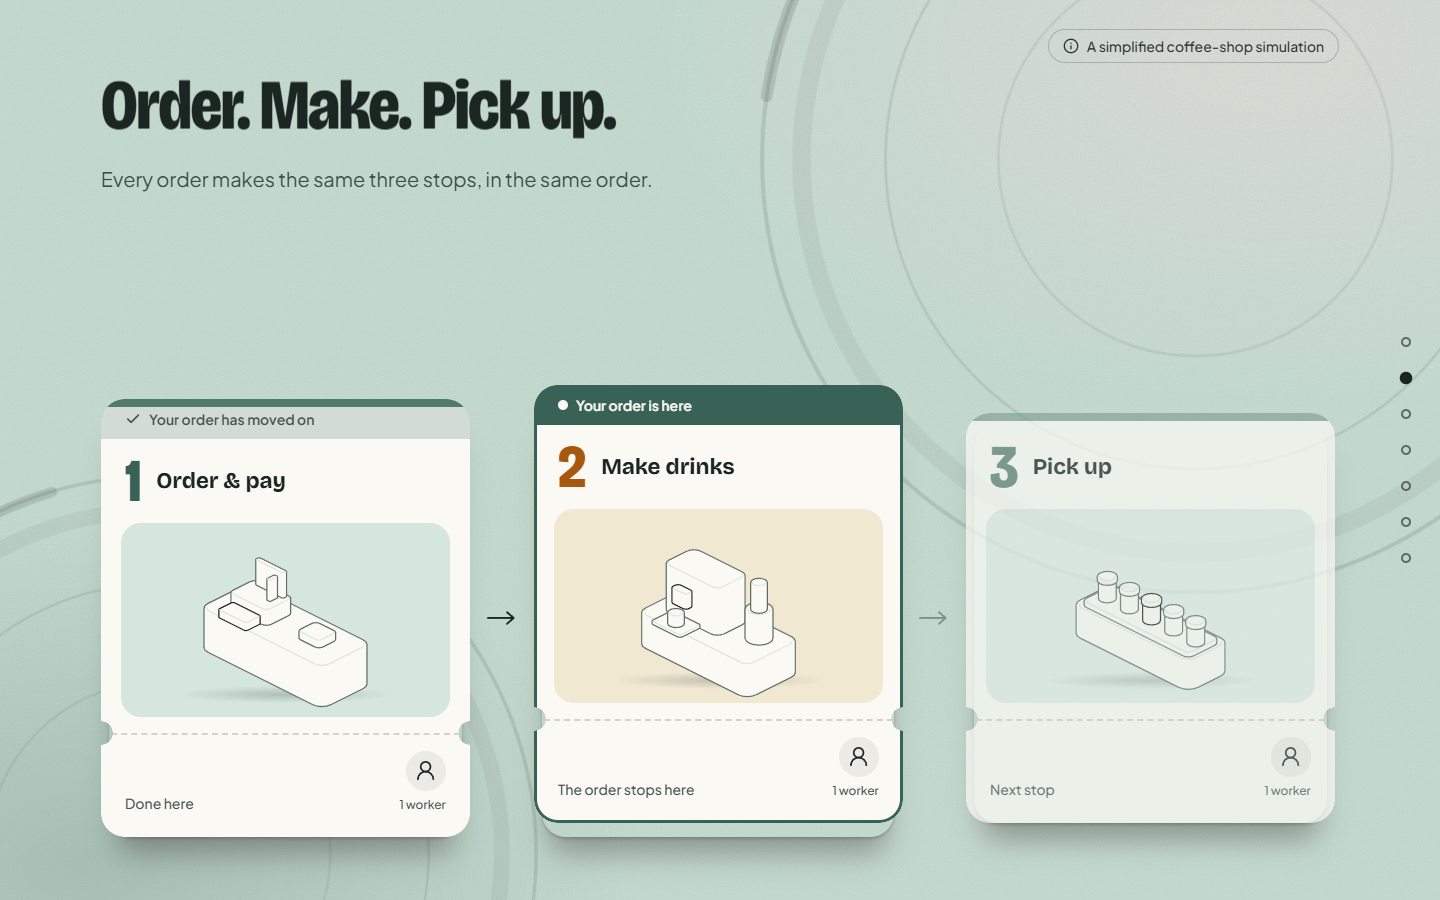
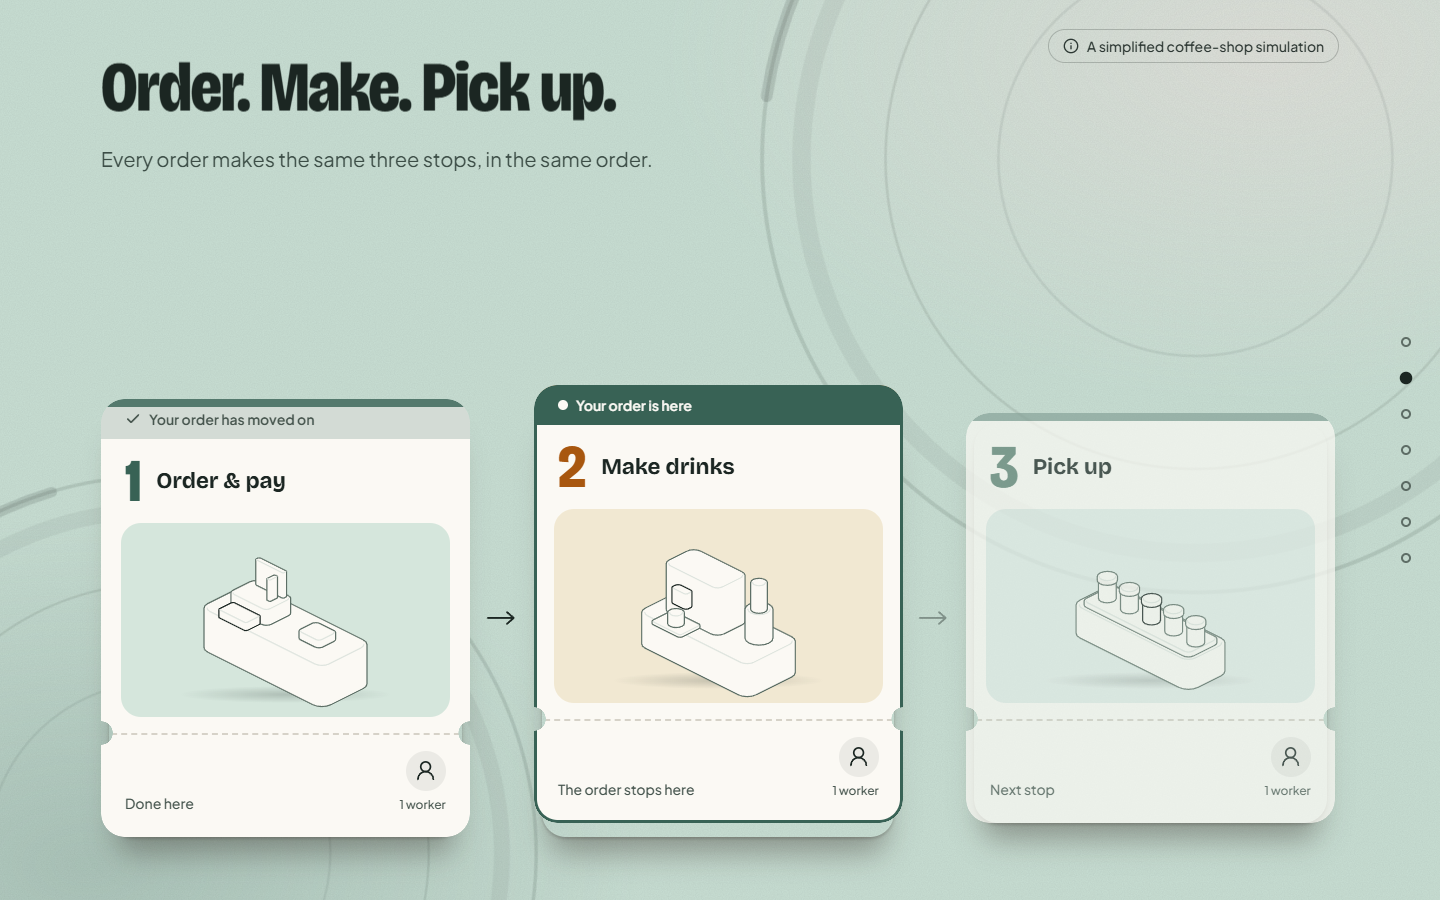
Fix overlapping text: place the stage below the measured headline
Stage position is measured per beat, text scales with window height, the
pinned story needs 660px of height, and an end-to-end test checks for
overlap at four window sizes on every beat.

Changed region(s): [[0.0625, 0.0622, 0.4375, 0.2178]]

diff --git a/src/story/StoryExperience.tsx b/src/story/StoryExperience.tsx
@@ -44,6 +44,14 @@ const START: Step = { beat: 0, rush: 0, stop: 0 }
 
 const BEAT_LABELS = ['A familiar moment', 'One order, three stops', 'The rush', 'The obvious fix', 'The surprise', 'The reveal', 'Your turn']
 
+/** Keeps the stage clear of the headline: it starts below whichever text group is showing. */
+function positionStage(root: HTMLElement | null, beat: number) {
+  const area = root?.querySelector<HTMLElement>('[data-stage-area]')
+  const group = root?.querySelector<HTMLElement>('[data-text="' + beat + '"]')
+  if (!area || !group) return
+  gsap.set(area, { top: group.offsetTop + group.offsetHeight + 28 })
+}
+
 const mmss = (seconds: number) => `${Math.floor(seconds / 60)}:${String(Math.round(seconds % 60)).padStart(2, '0')}`
 
 export function StoryExperience() {
@@ -101,8 +109,16 @@ export function StoryExperience() {
         onUpdate: (self) => apply(self.progress),
         onRefresh: (self) => apply(self.progress),
       })
-      document.fonts?.ready.then(() => ScrollTrigger.refresh())
-      return () => st.kill()
+      const relayout = () => positionStage(root.current, live.current.step.beat)
+      window.addEventListener('resize', relayout)
+      document.fonts?.ready.then(() => {
+        relayout()
+        ScrollTrigger.refresh()
+      })
+      return () => {
+        window.removeEventListener('resize', relayout)
+        st.kill()
+      }
     },
     { scope: root },
   )
@@ -142,6 +158,7 @@ export function StoryExperience() {
         gsap.set(group(prev), { autoAlpha: 0, delay: 0.42 })
       }
       gsap.set(group(beat), { autoAlpha: 1 })
+      positionStage(root.current, beat)
       gsap.fromTo(words(beat), { yPercent: 120 * dir }, { yPercent: 0, duration: 0.95, stagger: 0.06, ease: 'power4.out', delay: prev < 0 ? 0.15 : 0.26 })
       gsap.fromTo(support(beat), { autoAlpha: 0, y: 18 * dir }, { autoAlpha: 1, y: 0, duration: 0.8, ease: 'power3.out', delay: prev < 0 ? 0.7 : 0.8 })
 
@@ -262,7 +279,7 @@ export function StoryExperience() {
               </div>
             ) : null}
 
-            <div data-stage-area className="absolute inset-x-0 bottom-[7svh] top-[31svh]">
+            <div data-stage-area className="absolute inset-x-0 bottom-[7svh]" style={{ top: '31svh' }}>
               <Layer scene="opening" visible align="end" justify="end">
                 <OpeningCard className="w-[min(31vw,470px)] self-end" />
               </Layer>
@@ -353,7 +370,7 @@ const TextGroups = memo(function TextGroups() {
           key={b.id}
           data-text={i}
           style={{ opacity: i === 0 ? 1 : 0, visibility: i === 0 ? 'visible' : 'hidden', left: GUTTER, right: GUTTER }}
-          className="absolute top-[clamp(36px,8svh,92px)] flex flex-col items-start gap-6"
+          className="absolute top-[clamp(28px,6svh,92px)] flex flex-col items-start gap-[clamp(12px,2.4svh,24px)]"
         >
           <RevealText
             as="p"
@@ -361,12 +378,12 @@ const TextGroups = memo(function TextGroups() {
             className={cn(
               'display text-balance',
               i === 0
-                ? 'max-w-[15ch] text-[clamp(3rem,7.6vw,8.8rem)] leading-[0.92]'
-                : 'max-w-[17ch] text-[clamp(2.3rem,4.9vw,5.4rem)] leading-[0.95]',
+                ? 'max-w-[15ch] text-[clamp(2.6rem,min(7.6vw,13.5svh),8.8rem)] leading-[0.92]'
+                : 'max-w-[17ch] text-[clamp(2rem,min(4.9vw,8.4svh),5.4rem)] leading-[0.95]',
             )}
           />
           {b.support ? (
-            <p data-support className="max-w-[38ch] text-pretty text-lg leading-relaxed sm:text-xl" style={{ color: BEAT_THEMES[0].fg2 }}>
+            <p data-support className="max-w-[38ch] text-pretty text-[clamp(1rem,2.4svh,1.25rem)] leading-relaxed" style={{ color: BEAT_THEMES[0].fg2 }}>
               {b.support}
             </p>
           ) : null}

diff --git a/tests/e2e/story.spec.ts b/tests/e2e/story.spec.ts
@@ -131,3 +131,47 @@ test.describe('static story (phones, tablets, reduced motion)', () => {
     await expect(page.getByRole('heading', { name: HEADLINES[6] })).toBeAttached()
   })
 })
+
+/** The headline and the stage must never overlap, at any window size the pinned story is used at. */
+test.describe('no overlapping text in the pinned story', () => {
+  test.skip(({ isMobile }) => isMobile, 'phones get the static story')
+  const sizes = [
+    { width: 1440, height: 900 },
+    { width: 1280, height: 720 },
+    { width: 1100, height: 700 },
+    { width: 960, height: 680 },
+  ]
+  for (const size of sizes) {
+    test(`${size.width}x${size.height}`, async ({ page }) => {
+      test.setTimeout(90_000)
+      await page.setViewportSize(size)
+      await page.goto('/')
+      await page.waitForTimeout(1500)
+      const problems: string[] = []
+      for (let beat = 0; beat < HEADLINES.length; beat++) {
+        await goTo(page, beat, 0.5)
+        await settle(page, beat)
+        const m = await page.evaluate((beat) => {
+          const text = document.querySelector<HTMLElement>(`[data-text="${beat}"]`)!.getBoundingClientRect()
+          const scene = [...document.querySelectorAll<HTMLElement>('[data-scene]')].find((e) => +getComputedStyle(e).opacity > 0.9)!
+          const inner = scene.firstElementChild!.getBoundingClientRect()
+          const clock = document.querySelector<HTMLElement>('[data-clock]')?.getBoundingClientRect()
+          return {
+            textBottom: text.bottom,
+            sceneTop: inner.top,
+            sceneBottom: inner.bottom,
+            sceneRight: inner.right,
+            clockLeft: clock?.left ?? null,
+            clockBottom: clock?.bottom ?? null,
+            vw: window.innerWidth,
+            vh: window.innerHeight,
+          }
+        }, beat)
+        if (m.sceneTop < m.textBottom - 1) problems.push(`beat ${beat}: stage top ${Math.round(m.sceneTop)} is above text bottom ${Math.round(m.textBottom)}`)
+        if (m.sceneBottom > m.vh + 1) problems.push(`beat ${beat}: stage bottom ${Math.round(m.sceneBottom)} is below the window ${m.vh}`)
+        if (m.sceneRight > m.vw + 1) problems.push(`beat ${beat}: stage runs off the right edge`)
+      }
+      expect(problems, problems.join('\n')).toEqual([])
+    })
+  }
+})

diff --git a/src/components/StationCard.tsx b/src/components/StationCard.tsx
@@ -183,12 +183,12 @@ function StationCardBase({
           aria-labelledby={headingId}
           {...tiltHandlers}
           style={tiltStyle}
-          className={cn(surface, 'h-full gap-4 rounded-[20px] p-5 pl-7', detail === 'named' && 'justify-center')}
+          className={cn(surface, 'h-full gap-3 rounded-[20px] p-4 pl-6', detail === 'named' && 'justify-center')}
         >
           {glare}
           <span aria-hidden="true" className={cn('absolute inset-y-0 left-0 w-2', accent.bar)} />
           <div className="flex items-center gap-4">
-            <span aria-hidden="true" className={cn('display w-10 text-center text-[3.4rem] leading-none', accent.numeral)}>
+            <span aria-hidden="true" className={cn('display w-10 text-center text-[3rem] leading-none', accent.numeral)}>
               {station.step}
             </span>
             <div className="min-w-0 flex-1">

diff --git a/src/story/useStoryMode.ts b/src/story/useStoryMode.ts
@@ -6,7 +6,7 @@ import { useSyncExternalStore } from 'react'
  */
 export type StoryMode = 'pinned' | 'static'
 
-const WIDE = '(min-width: 900px) and (min-height: 520px)'
+const WIDE = '(min-width: 900px) and (min-height: 660px)'
 const REDUCED = '(prefers-reduced-motion: reduce)'
 
 function subscribe(onChange: () => void) {

diff --git a/docs/progress.md b/docs/progress.md
@@ -107,3 +107,7 @@ Open items:
 - The four Pinterest references could not be read by tooling; style, scroll, hover and movement ideas from them are not yet applied. Screenshots would fix that.
 - The client's last message was cut off after "Can you"; the request is unknown.
 - Still not checked: touch behaviour, 200% zoom, keyboard pass over the tickets, contrast numbers for every ticket combination, performance profile of the new background glow tween.
+
+## Overlap fix (2026-10-27)
+
+Client reported text overlapping on some beats (the comparison label ran into the subtitle). Cause: the stage began at a fixed 31% of the window height, but the headline plus subtitle is taller than that in shorter windows. Fixes: the stage now starts below whichever text group is showing (measured on every beat, on resize and when fonts load); headline and subtitle sizes follow the window height as well as its width; the pinned story now needs a window at least 660px tall (shorter ones get the plain layout); comparison tickets are slightly more compact. New end-to-end test `no overlapping text in the pinned story` checks, at 1440x900, 1280x720, 1100x700 and 960x680, that on every beat the stage starts below the text and stays inside the window. Run against the previous code it fails at three of the four sizes, so it detects the bug.
